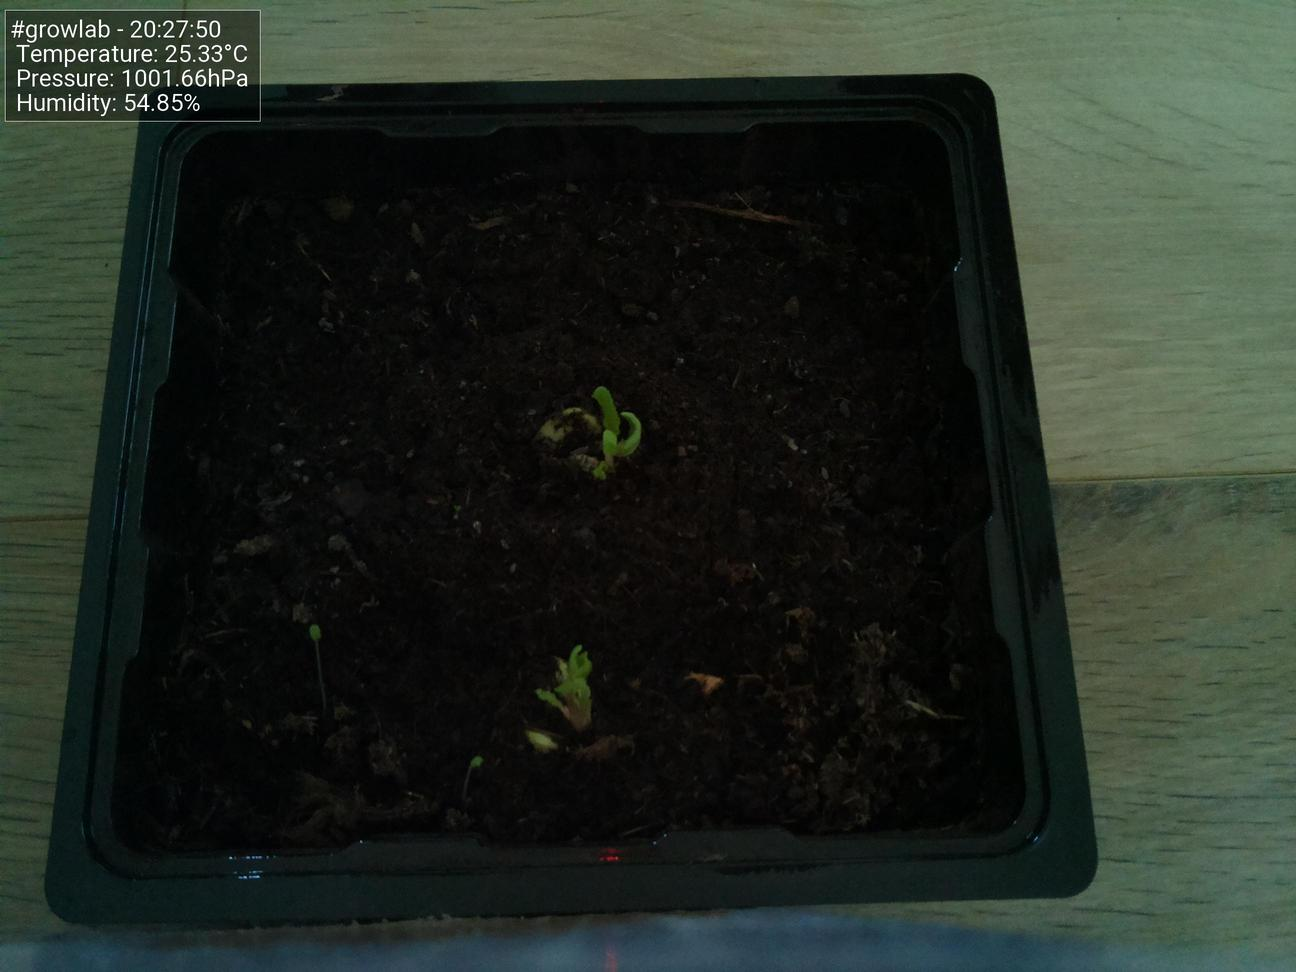
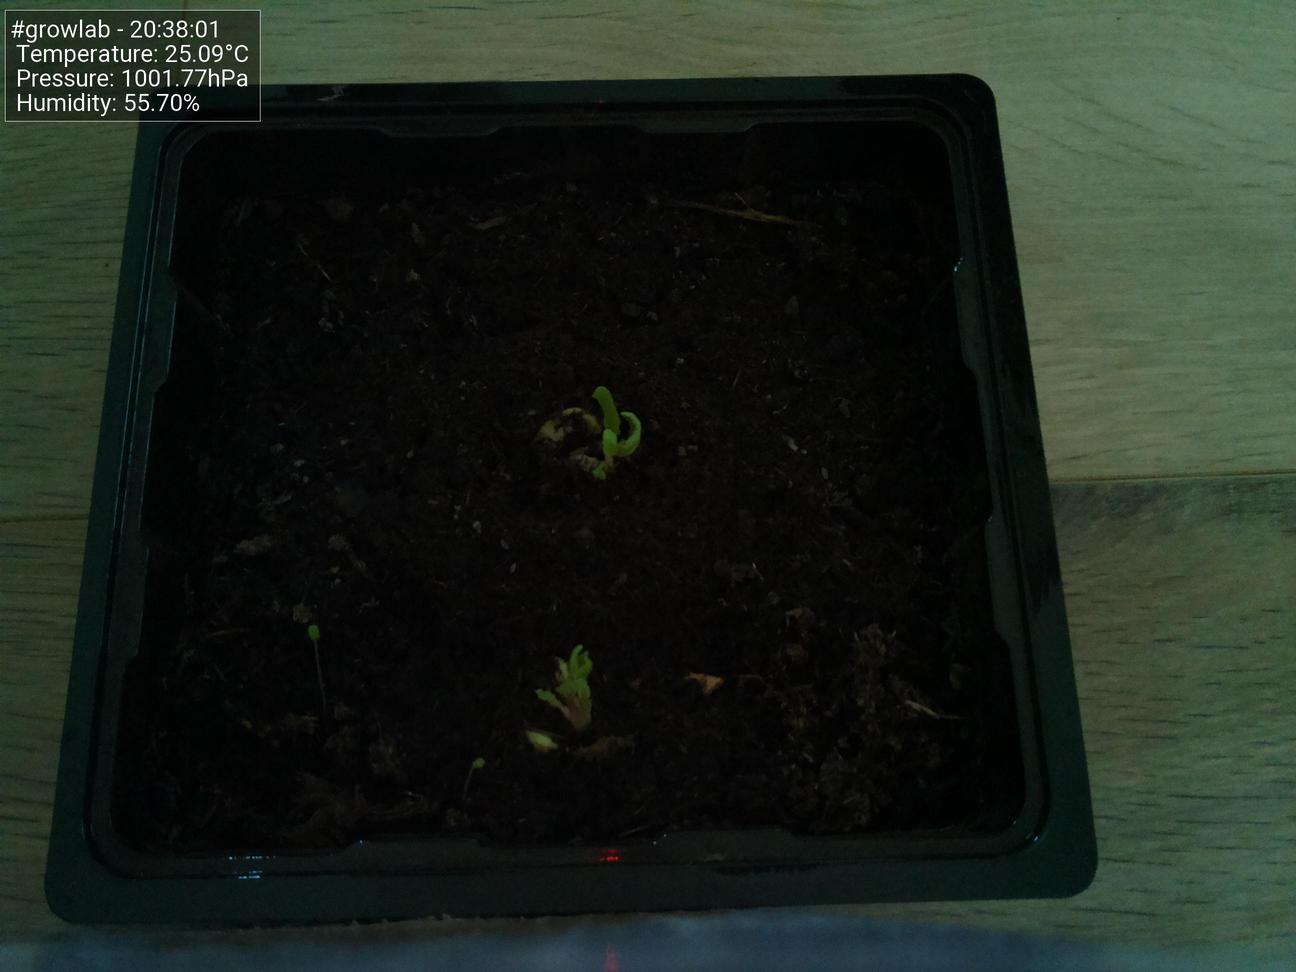
Update images at Sun  6 Jun 20:38:05 CEST 2021

diff --git a/docs/index.html b/docs/index.html
@@ -47,19 +47,19 @@
                         <tbody>
                             <tr>
                                 <td>Time</td>
-                                <td>20:27:50</td>
+                                <td>20:38:01</td>
                             </tr>
                             <tr>
                                 <td>Temperature</td>
-                                <td>25.33°C</td>
+                                <td>25.09°C</td>
                             </tr>
                             <tr>
                                 <td>Humidity</td>
-                                <td>54.85%</td>
+                                <td>55.70%</td>
                             </tr>
                             <tr>
                                 <td>Pressure</td>
-                                <td>1001.66hPa</td>
+                                <td>1001.77hPa</td>
                             </tr>
                         </tbody>
                     </table>
@@ -67,7 +67,7 @@
 
                 <h5>Latest image</h5>
                 <div style="width: 85%;">
-                            <img class="figure-img img-fluid rounded" src="./preview.jpg?uid=1623004074.2333903">
+                            <img class="figure-img img-fluid rounded" src="./preview.jpg?uid=1623004685.1892707">
                 </div>
             </div>
         </div>
